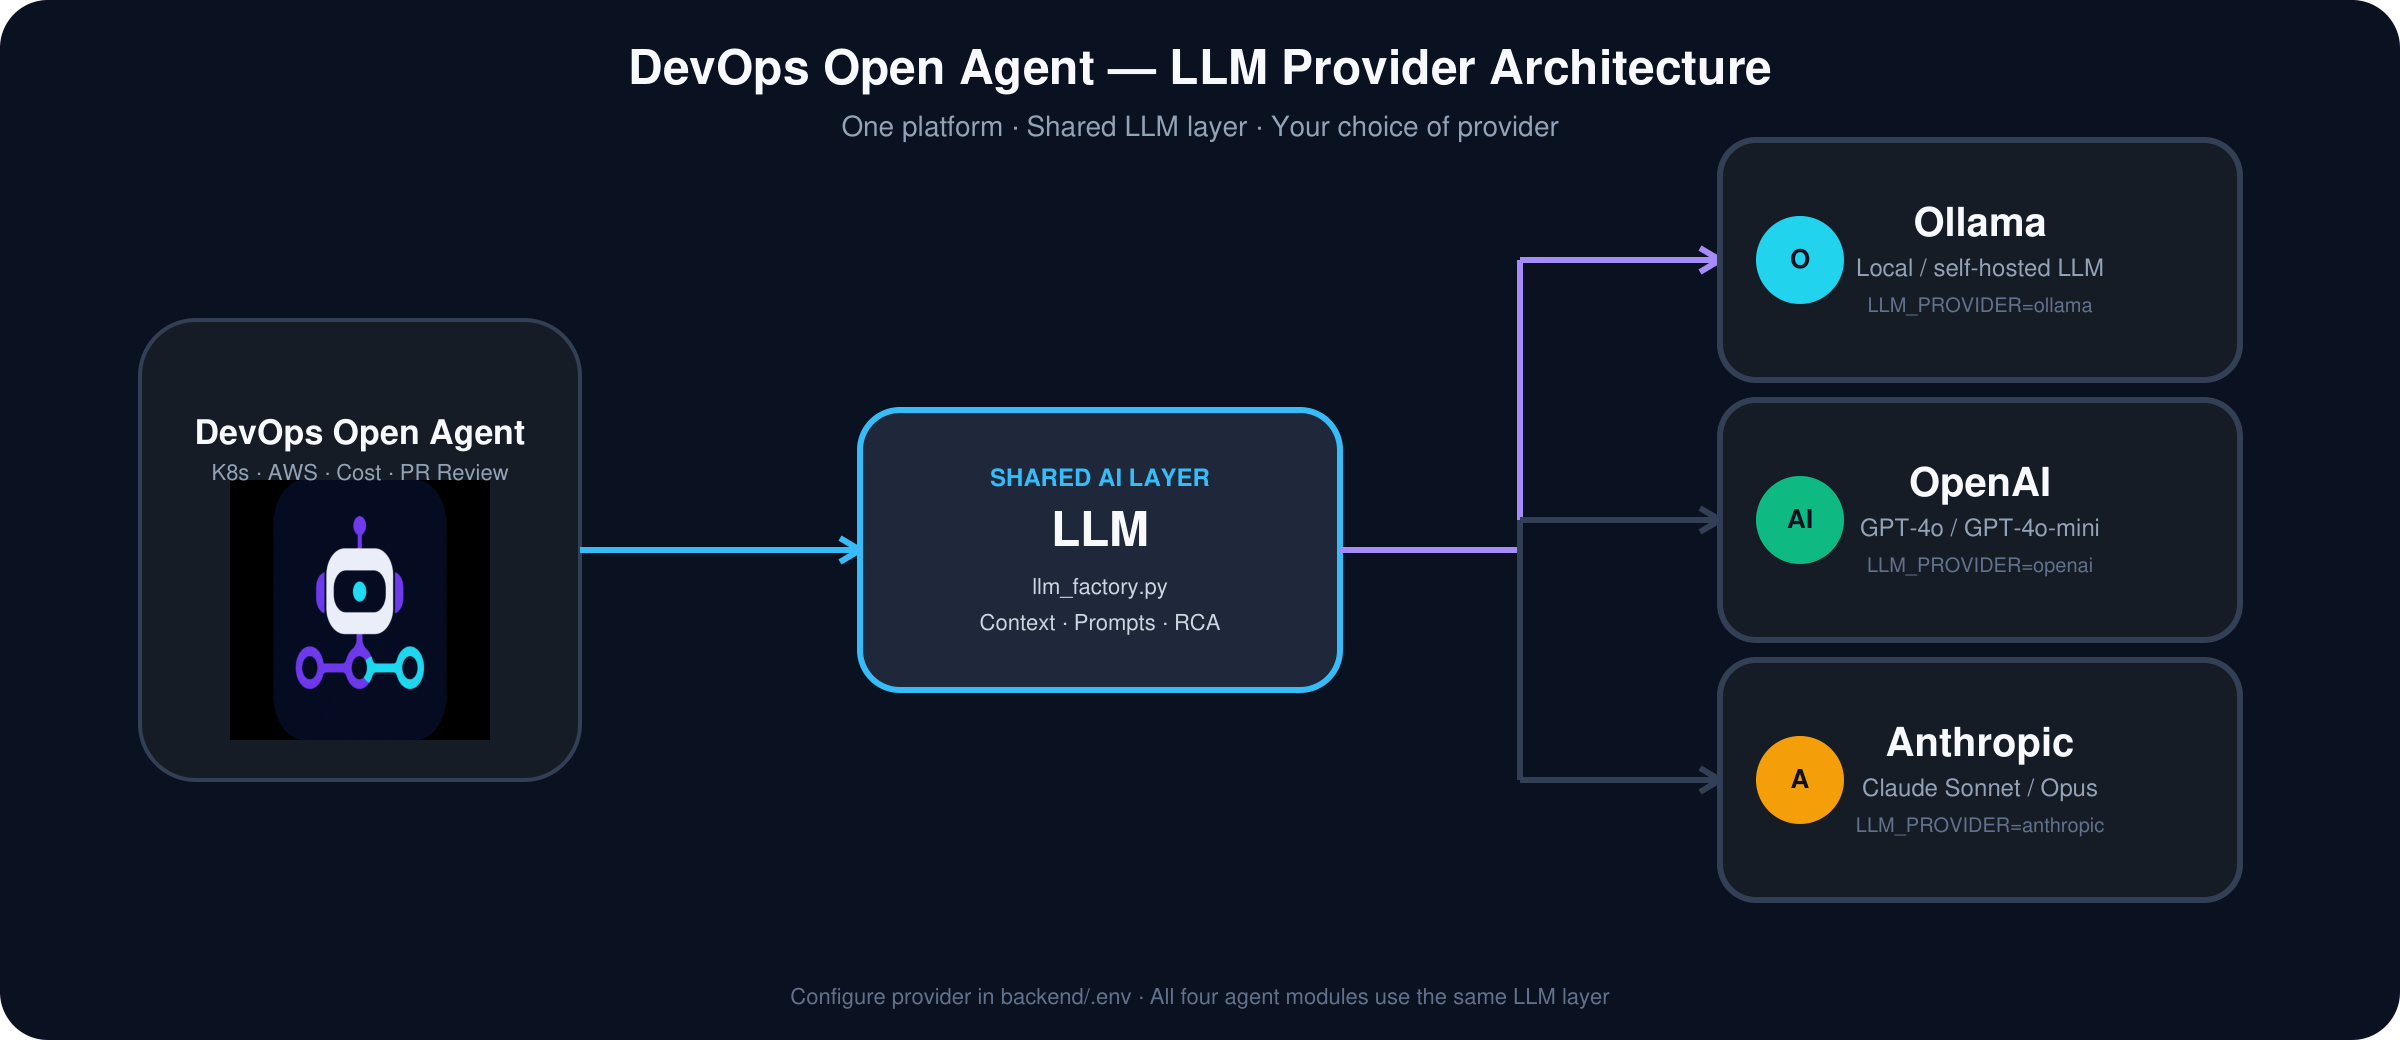
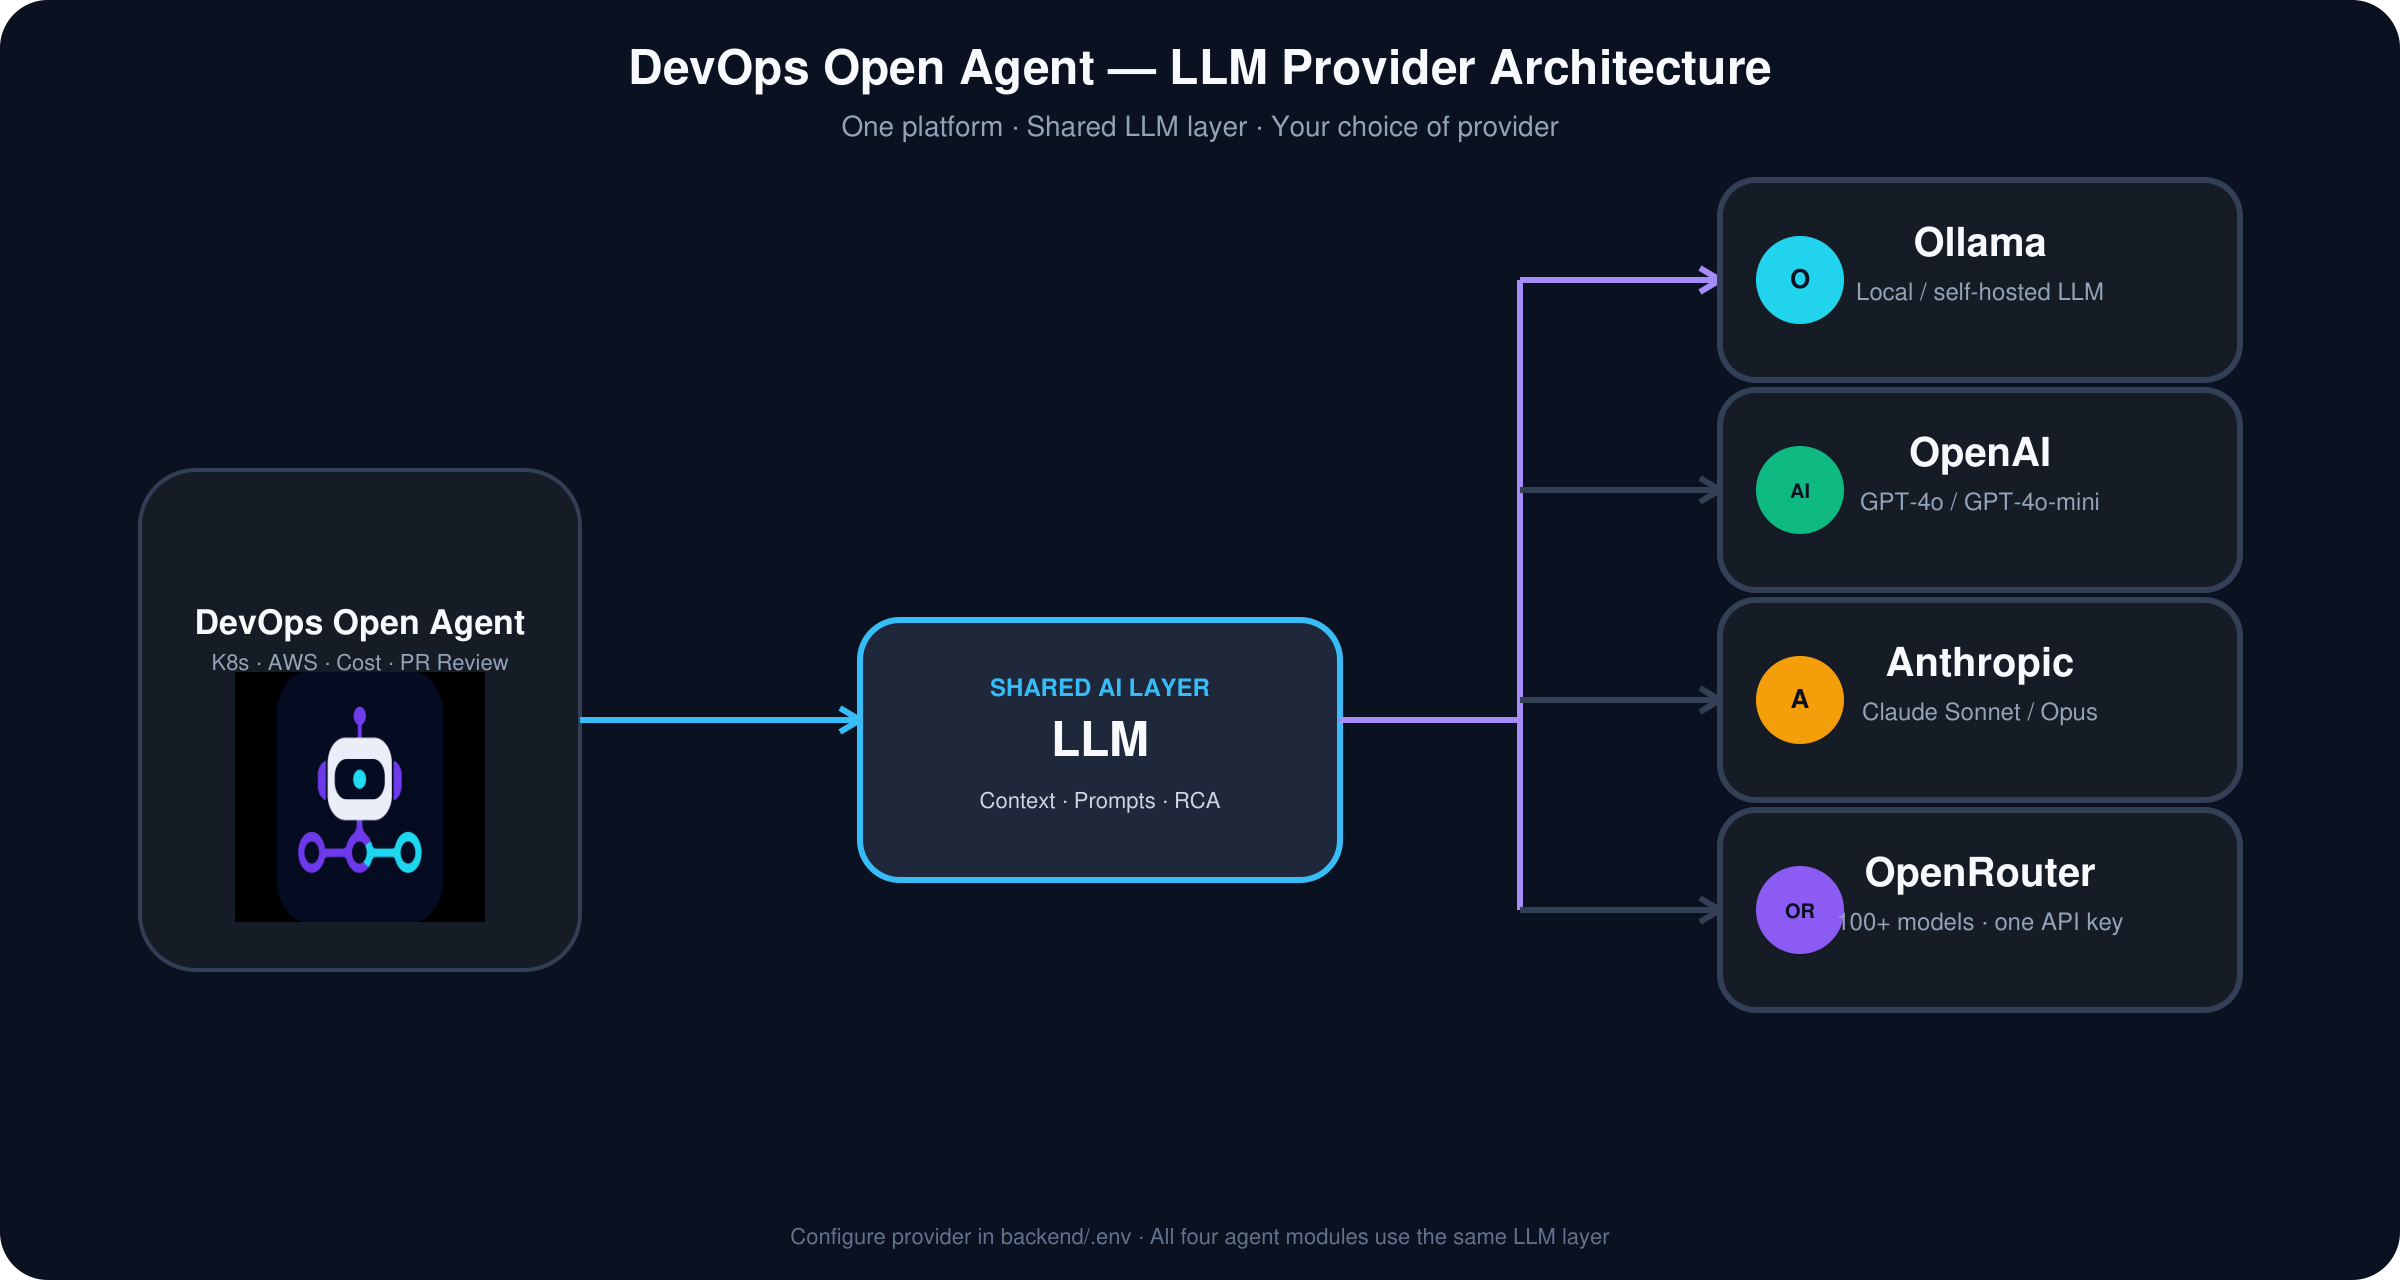
Update LLM provider diagram with OpenRouter and cleaner labels.
Adds OpenRouter as a fourth provider, removes internal code filenames from the diagram, and refreshes README documentation and assets.

diff --git a/scripts/build_llm_diagram.py b/scripts/build_llm_diagram.py
@@ -1,11 +1,10 @@
 #!/usr/bin/env python3
-"""Render LLM provider architecture diagram as PNG."""
+"""Render LLM provider architecture diagram as PNG, PDF, and SVG."""
 
 from __future__ import annotations
 
 from pathlib import Path
 
-from PIL import Image, ImageDraw, ImageFont
 from reportlab.lib.utils import ImageReader
 from reportlab.pdfgen import canvas
 
@@ -13,20 +12,26 @@ ROOT = Path(__file__).resolve().parents[1]
 ICON = ROOT / "img" / "devops-open-agent-icon.png"
 OUT_PNG = ROOT / "img" / "llm-provider-diagram.png"
 OUT_PDF = ROOT / "img" / "llm-provider-diagram.pdf"
+OUT_SVG = ROOT / "img" / "llm-provider-diagram.svg"
 TMP_PDF = ROOT / "img" / ".llm-provider-diagram-tmp.pdf"
 
-W, H = 1200, 520
+W, H = 1200, 640
+
+PROVIDERS = [
+    ("Ollama", "Local / self-hosted LLM", "O", (0.13, 0.83, 0.93)),
+    ("OpenAI", "GPT-4o / GPT-4o-mini", "AI", (0.06, 0.73, 0.51)),
+    ("Anthropic", "Claude Sonnet / Opus", "A", (0.96, 0.62, 0.04)),
+    ("OpenRouter", "100+ models · one API key", "OR", (0.55, 0.36, 0.96)),
+]
 
 
 def draw_diagram(pdf_path: Path) -> None:
     c = canvas.Canvas(str(pdf_path), pagesize=(W, H))
     c.setTitle("DevOps Open Agent LLM Provider Architecture")
 
-    # Background
     c.setFillColorRGB(0.04, 0.07, 0.13)
     c.roundRect(0, 0, W, H, 24, fill=1, stroke=0)
 
-    # Title
     c.setFillColorRGB(0.97, 0.98, 0.99)
     c.setFont("Helvetica-Bold", 24)
     c.drawCentredString(W / 2, H - 42, "DevOps Open Agent — LLM Provider Architecture")
@@ -34,20 +39,17 @@ def draw_diagram(pdf_path: Path) -> None:
     c.setFont("Helvetica", 14)
     c.drawCentredString(W / 2, H - 68, "One platform · Shared LLM layer · Your choice of provider")
 
-    # DevOps Open Agent box
-    box_x, box_y, box_w, box_h = 70, 130, 220, 230
+    box_x, box_y, box_w, box_h = 70, 155, 220, 250
     c.setFillColorRGB(0.09, 0.11, 0.15)
     c.setStrokeColorRGB(0.20, 0.25, 0.33)
     c.setLineWidth(2)
     c.roundRect(box_x, box_y, box_w, box_h, 28, fill=1, stroke=1)
 
-    icon_size = 130
-    icon_x = box_x + (box_w - icon_size) / 2
-    icon_y = box_y + 20
+    icon_size = 125
     c.drawImage(
         ImageReader(str(ICON)),
-        icon_x,
-        icon_y,
+        box_x + (box_w - icon_size) / 2,
+        box_y + 24,
         width=icon_size,
         height=icon_size,
         mask="auto",
@@ -61,7 +63,6 @@ def draw_diagram(pdf_path: Path) -> None:
 
     center_y = box_y + box_h / 2
 
-    # Arrow to LLM
     c.setStrokeColorRGB(0.22, 0.74, 0.97)
     c.setLineWidth(3)
     c.line(290, center_y, 430, center_y)
@@ -69,50 +70,46 @@ def draw_diagram(pdf_path: Path) -> None:
     c.line(420, center_y - 6, 430, center_y)
     c.line(420, center_y + 6, 430, center_y)
 
-    # LLM box
-    llm_x, llm_y, llm_w, llm_h = 430, 175, 240, 140
+    llm_x, llm_y, llm_w, llm_h = 430, 200, 240, 130
     c.setFillColorRGB(0.12, 0.16, 0.23)
     c.setStrokeColorRGB(0.22, 0.74, 0.97)
     c.roundRect(llm_x, llm_y, llm_w, llm_h, 20, fill=1, stroke=1)
     c.setFillColorRGB(0.22, 0.74, 0.97)
     c.setFont("Helvetica-Bold", 12)
-    c.drawCentredString(llm_x + llm_w / 2, llm_y + 102, "SHARED AI LAYER")
+    c.drawCentredString(llm_x + llm_w / 2, llm_y + 92, "SHARED AI LAYER")
     c.setFillColorRGB(0.97, 0.98, 0.99)
     c.setFont("Helvetica-Bold", 24)
-    c.drawCentredString(llm_x + llm_w / 2, llm_y + 72, "LLM")
+    c.drawCentredString(llm_x + llm_w / 2, llm_y + 62, "LLM")
     c.setFillColorRGB(0.80, 0.84, 0.88)
     c.setFont("Helvetica", 11)
-    c.drawCentredString(llm_x + llm_w / 2, llm_y + 48, "llm_factory.py")
-    c.drawCentredString(llm_x + llm_w / 2, llm_y + 30, "Context · Prompts · RCA")
+    c.drawCentredString(llm_x + llm_w / 2, llm_y + 36, "Context · Prompts · RCA")
 
-    # Branch hub
     hub_x = 760
+    branch_ys = [500, 395, 290, 185]
+    card_h = 100
+
     c.setStrokeColorRGB(0.65, 0.55, 0.98)
     c.setLineWidth(3)
     c.line(670, center_y, hub_x, center_y)
+    c.line(hub_x, branch_ys[-1], hub_x, branch_ys[0])
 
-    providers = [
-        (390, "Ollama", "Local / self-hosted LLM", "LLM_PROVIDER=ollama", (0.13, 0.83, 0.93), "O"),
-        (260, "OpenAI", "GPT-4o / GPT-4o-mini", "LLM_PROVIDER=openai", (0.06, 0.73, 0.51), "AI"),
-        (130, "Anthropic", "Claude Sonnet / Opus", "LLM_PROVIDER=anthropic", (0.96, 0.62, 0.04), "A"),
-    ]
-
-    for y, name, subtitle, env, color, initial in providers:
-        c.line(hub_x, center_y, hub_x, y)
+    for index, (name, subtitle, initial, color) in enumerate(PROVIDERS):
+        y = branch_ys[index]
         c.line(hub_x, y, 860, y)
         c.line(850, y, 860, y)
         c.line(850, y - 6, 860, y)
         c.line(850, y + 6, 860, y)
 
-        px, py, pw, ph = 860, y - 60, 260, 120
+        px, py, pw = 860, y - card_h / 2, 260
         c.setFillColorRGB(0.09, 0.11, 0.15)
         c.setStrokeColorRGB(0.20, 0.25, 0.33)
-        c.roundRect(px, py, pw, ph, 18, fill=1, stroke=1)
+        c.roundRect(px, py, pw, card_h, 18, fill=1, stroke=1)
 
         c.setFillColorRGB(*color)
         c.circle(900, y, 22, fill=1, stroke=0)
         c.setFillColorRGB(0.04, 0.07, 0.13)
-        c.setFont("Helvetica-Bold", 13)
+        font_size = 10 if len(initial) > 1 else 13
+        c.setFont("Helvetica-Bold", font_size)
         c.drawCentredString(900, y - 4, initial)
 
         c.setFillColorRGB(0.97, 0.98, 0.99)
@@ -120,10 +117,7 @@ def draw_diagram(pdf_path: Path) -> None:
         c.drawCentredString(990, y + 12, name)
         c.setFillColorRGB(0.58, 0.64, 0.72)
         c.setFont("Helvetica", 12)
-        c.drawCentredString(990, y - 8, subtitle)
-        c.setFillColorRGB(0.39, 0.45, 0.55)
-        c.setFont("Helvetica", 10)
-        c.drawCentredString(990, y - 26, env)
+        c.drawCentredString(990, y - 10, subtitle)
 
     c.setFillColorRGB(0.39, 0.45, 0.55)
     c.setFont("Helvetica", 11)
@@ -136,18 +130,67 @@ def draw_diagram(pdf_path: Path) -> None:
     c.save()
 
 
+def write_svg() -> None:
+    branch_ys = [500, 395, 290, 185]
+    card_h = 100
+    provider_blocks = []
+    for index, (name, subtitle, initial, color) in enumerate(PROVIDERS):
+        y = branch_ys[index]
+        hex_color = "#{:02x}{:02x}{:02x}".format(
+            int(color[0] * 255), int(color[1] * 255), int(color[2] * 255)
+        )
+        font_size = 10 if len(initial) > 1 else 13
+        provider_blocks.append(
+            f"""  <line x1="760" y1="{y}" x2="860" y2="{y}" stroke="#A78BFA" stroke-width="3" marker-end="url(#arrowPurple)"/>
+  <g filter="url(#shadow)">
+    <rect x="860" y="{y - card_h / 2}" width="260" height="{card_h}" rx="18" fill="#171B26" stroke="#334155" stroke-width="2"/>
+    <circle cx="900" cy="{y}" r="22" fill="{hex_color}"/>
+    <text x="900" y="{y + 4}" text-anchor="middle" fill="#0B1220" font-family="system-ui,sans-serif" font-size="{font_size}" font-weight="700">{initial}</text>
+    <text x="990" y="{y + 12}" text-anchor="middle" fill="#F8FAFC" font-family="system-ui,sans-serif" font-size="20" font-weight="700">{name}</text>
+    <text x="990" y="{y - 10}" text-anchor="middle" fill="#94A3B8" font-family="system-ui,sans-serif" font-size="12">{subtitle}</text>
+  </g>"""
+        )
+
+    OUT_SVG.write_text(
+        f"""<svg xmlns="http://www.w3.org/2000/svg" xmlns:xlink="http://www.w3.org/1999/xlink" width="1200" height="640" viewBox="0 0 1200 640">
+  <defs>
+    <linearGradient id="bg" x1="0" y1="0" x2="0" y2="1">
+      <stop offset="0%" stop-color="#0B1220"/><stop offset="100%" stop-color="#111827"/>
+    </linearGradient>
+    <filter id="shadow"><feDropShadow dx="0" dy="4" stdDeviation="8" flood-opacity="0.35"/></filter>
+    <marker id="arrowBlue" markerWidth="10" markerHeight="10" refX="8" refY="5" orient="auto"><path d="M0,0 L10,5 L0,10 Z" fill="#38BDF8"/></marker>
+    <marker id="arrowPurple" markerWidth="10" markerHeight="10" refX="8" refY="5" orient="auto"><path d="M0,0 L10,5 L0,10 Z" fill="#A78BFA"/></marker>
+  </defs>
+  <rect width="1200" height="640" rx="24" fill="url(#bg)"/>
+  <text x="600" y="42" text-anchor="middle" fill="#F8FAFC" font-family="system-ui,sans-serif" font-size="24" font-weight="700">DevOps Open Agent — LLM Provider Architecture</text>
+  <text x="600" y="68" text-anchor="middle" fill="#94A3B8" font-family="system-ui,sans-serif" font-size="14">One platform · Shared LLM layer · Your choice of provider</text>
+
+  <g filter="url(#shadow)">
+    <rect x="70" y="155" width="220" height="250" rx="28" fill="#171B26" stroke="#334155" stroke-width="2"/>
+    <image x="92" y="179" width="176" height="176" xlink:href="devops-open-agent-icon.png"/>
+    <text x="180" y="348" text-anchor="middle" fill="#F8FAFC" font-family="system-ui,sans-serif" font-size="17" font-weight="700">DevOps Open Agent</text>
+    <text x="180" y="368" text-anchor="middle" fill="#94A3B8" font-family="system-ui,sans-serif" font-size="11">K8s · AWS · Cost · PR Review</text>
+  </g>
+
+  <line x1="290" y1="280" x2="430" y2="280" stroke="#38BDF8" stroke-width="3" marker-end="url(#arrowBlue)"/>
+  <g filter="url(#shadow)">
+    <rect x="430" y="200" width="240" height="130" rx="20" fill="#1E293B" stroke="#38BDF8" stroke-width="2"/>
+    <text x="550" y="292" text-anchor="middle" fill="#38BDF8" font-family="system-ui,sans-serif" font-size="12" font-weight="700">SHARED AI LAYER</text>
+    <text x="550" y="262" text-anchor="middle" fill="#F8FAFC" font-family="system-ui,sans-serif" font-size="24" font-weight="700">LLM</text>
+    <text x="550" y="236" text-anchor="middle" fill="#CBD5E1" font-family="system-ui,sans-serif" font-size="11">Context · Prompts · RCA</text>
+  </g>
+
+  <line x1="670" y1="280" x2="760" y2="280" stroke="#A78BFA" stroke-width="3"/>
+  <line x1="760" y1="185" x2="760" y2="500" stroke="#A78BFA" stroke-width="3"/>
+{chr(10).join(provider_blocks)}
+
+  <text x="600" y="618" text-anchor="middle" fill="#64748B" font-family="system-ui,sans-serif" font-size="12">Configure provider in backend/.env · All four agent modules use the same LLM layer</text>
+</svg>""",
+        encoding="utf-8",
+    )
+
+
 def pdf_to_png(pdf_path: Path, png_path: Path) -> None:
-    try:
-        from pdf2image import convert_from_path
-
-        images = convert_from_path(str(pdf_path), dpi=200)
-        images[0].save(png_path, "PNG")
-        return
-    except Exception:
-        pass
-
-    # Fallback: render with Pillow via reportlab-produced PDF using macOS sips not for pdf
-    # Use pymupdf if available
     try:
         import fitz
 
@@ -158,19 +201,27 @@ def pdf_to_png(pdf_path: Path, png_path: Path) -> None:
         return
     except Exception:
         pass
+    try:
+        from pdf2image import convert_from_path
 
+        images = convert_from_path(str(pdf_path), dpi=200)
+        images[0].save(png_path, "PNG")
+        return
+    except Exception:
+        pass
     raise RuntimeError("Install pymupdf or pdf2image to export PNG")
 
 
 def main() -> None:
     if not ICON.exists():
         raise FileNotFoundError(f"Missing icon: {ICON}")
-
     draw_diagram(TMP_PDF)
     TMP_PDF.replace(OUT_PDF)
     pdf_to_png(OUT_PDF, OUT_PNG)
+    write_svg()
     print(f"Wrote {OUT_PNG}")
     print(f"Wrote {OUT_PDF}")
+    print(f"Wrote {OUT_SVG}")
 
 
 if __name__ == "__main__":

diff --git a/README.md b/README.md
@@ -48,7 +48,7 @@ Supported LLM providers: OpenAI, Anthropic, OpenRouter, Ollama — see [LLM Supp
 All four agent modules (Kubernetes, AWS, Cloud Cost, PR Reviewer) use a **shared LLM layer**.  
 Configure one provider in `backend/.env` — every investigation, diagnosis, and PR review uses it.
 
-![LLM provider architecture — DevOps Open Agent to Ollama, OpenAI, and Anthropic](img/llm-provider-diagram.png)
+![LLM provider architecture — DevOps Open Agent to Ollama, OpenAI, Anthropic, and OpenRouter](img/llm-provider-diagram.png)
 
 | Provider | `LLM_PROVIDER` | Configure in `backend/.env` |
 |----------|--------------|-------------------------------|
@@ -60,9 +60,15 @@ Configure one provider in `backend/.env` — every investigation, diagnosis, and
 Example (`backend/.env`):
 
 ```env
+# Anthropic
 LLM_PROVIDER=anthropic
 ANTHROPIC_API_KEY=sk-ant-...
 ANTHROPIC_MODEL=claude-sonnet-4-6
+
+# OpenRouter (100+ models through one API key)
+# LLM_PROVIDER=openrouter
+# OPENROUTER_API_KEY=sk-or-...
+# OPENROUTER_MODEL=openai/gpt-4o-mini
 ```
 
 After changing provider settings, restart the backend:

diff --git a/docs/README.md b/docs/README.md
@@ -18,7 +18,8 @@
 | [diagrams/application-request-flow.png](./diagrams/application-request-flow.png) | PNG | Application request flow |
 | [../img/aws-services-diagram.png](../img/aws-services-diagram.png) | PNG | AWS DevOps Agent → supported services |
 | [../img/aws-services-diagram.svg](../img/aws-services-diagram.svg) | SVG | AWS services architecture (vector) |
-| [../img/llm-provider-diagram.png](../img/llm-provider-diagram.png) | PNG | Shared LLM provider architecture |
+| [../img/llm-provider-diagram.png](../img/llm-provider-diagram.png) | PNG | Shared LLM provider architecture (Ollama, OpenAI, Anthropic, OpenRouter) |
+| [../img/llm-provider-diagram.svg](../img/llm-provider-diagram.svg) | SVG | LLM provider architecture (vector) |
 | [../img/slack-flow-diagram.png](../img/slack-flow-diagram.png) | PNG | Platform → agents → AI analysis → Slack |
 | [../img/slack-flow-diagram.svg](../img/slack-flow-diagram.svg) | SVG | Slack notification flow (vector) |
 